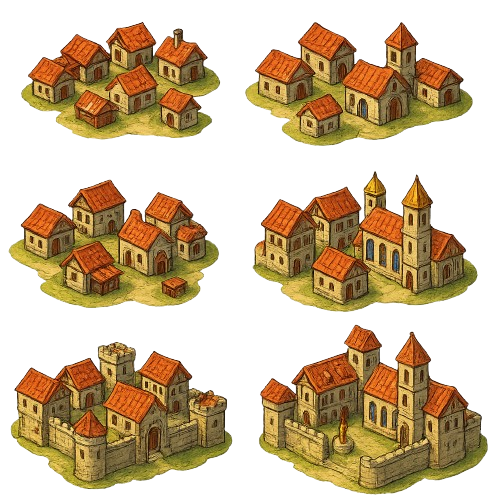
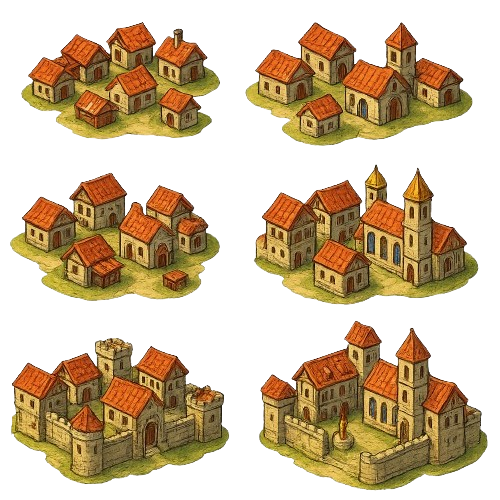
fixed city sprite

Changed region(s): [[0.51, 0.33, 0.99, 0.99], [0.0, 0.66, 0.48, 0.99], [0.0, 0.33, 0.45, 0.63]]

diff --git a/src/components/map/PhaserMappls.js b/src/components/map/PhaserMappls.js
@@ -49,7 +49,7 @@ class MapScene extends Phaser.Scene {
     preload() {
         this.load.image('island1', island1);
         this.load.image('island2', island2);
-        this.load.spritesheet('citySprite', citySpriteSheet, { frameWidth: 220, frameHeight: 150 });
+        this.load.spritesheet('citySprite', citySpriteSheet, { frameWidth: 230, frameHeight: 160 });
         this.load.spritesheet('villageSprite', villageSpriteSheet, { frameWidth: 80, frameHeight: 60 });
         this.load.spritesheet('ruinSprite', ruinSpriteSheet, { frameWidth: 220, frameHeight: 190 });
         this.load.image('godTown', godTownImage);
